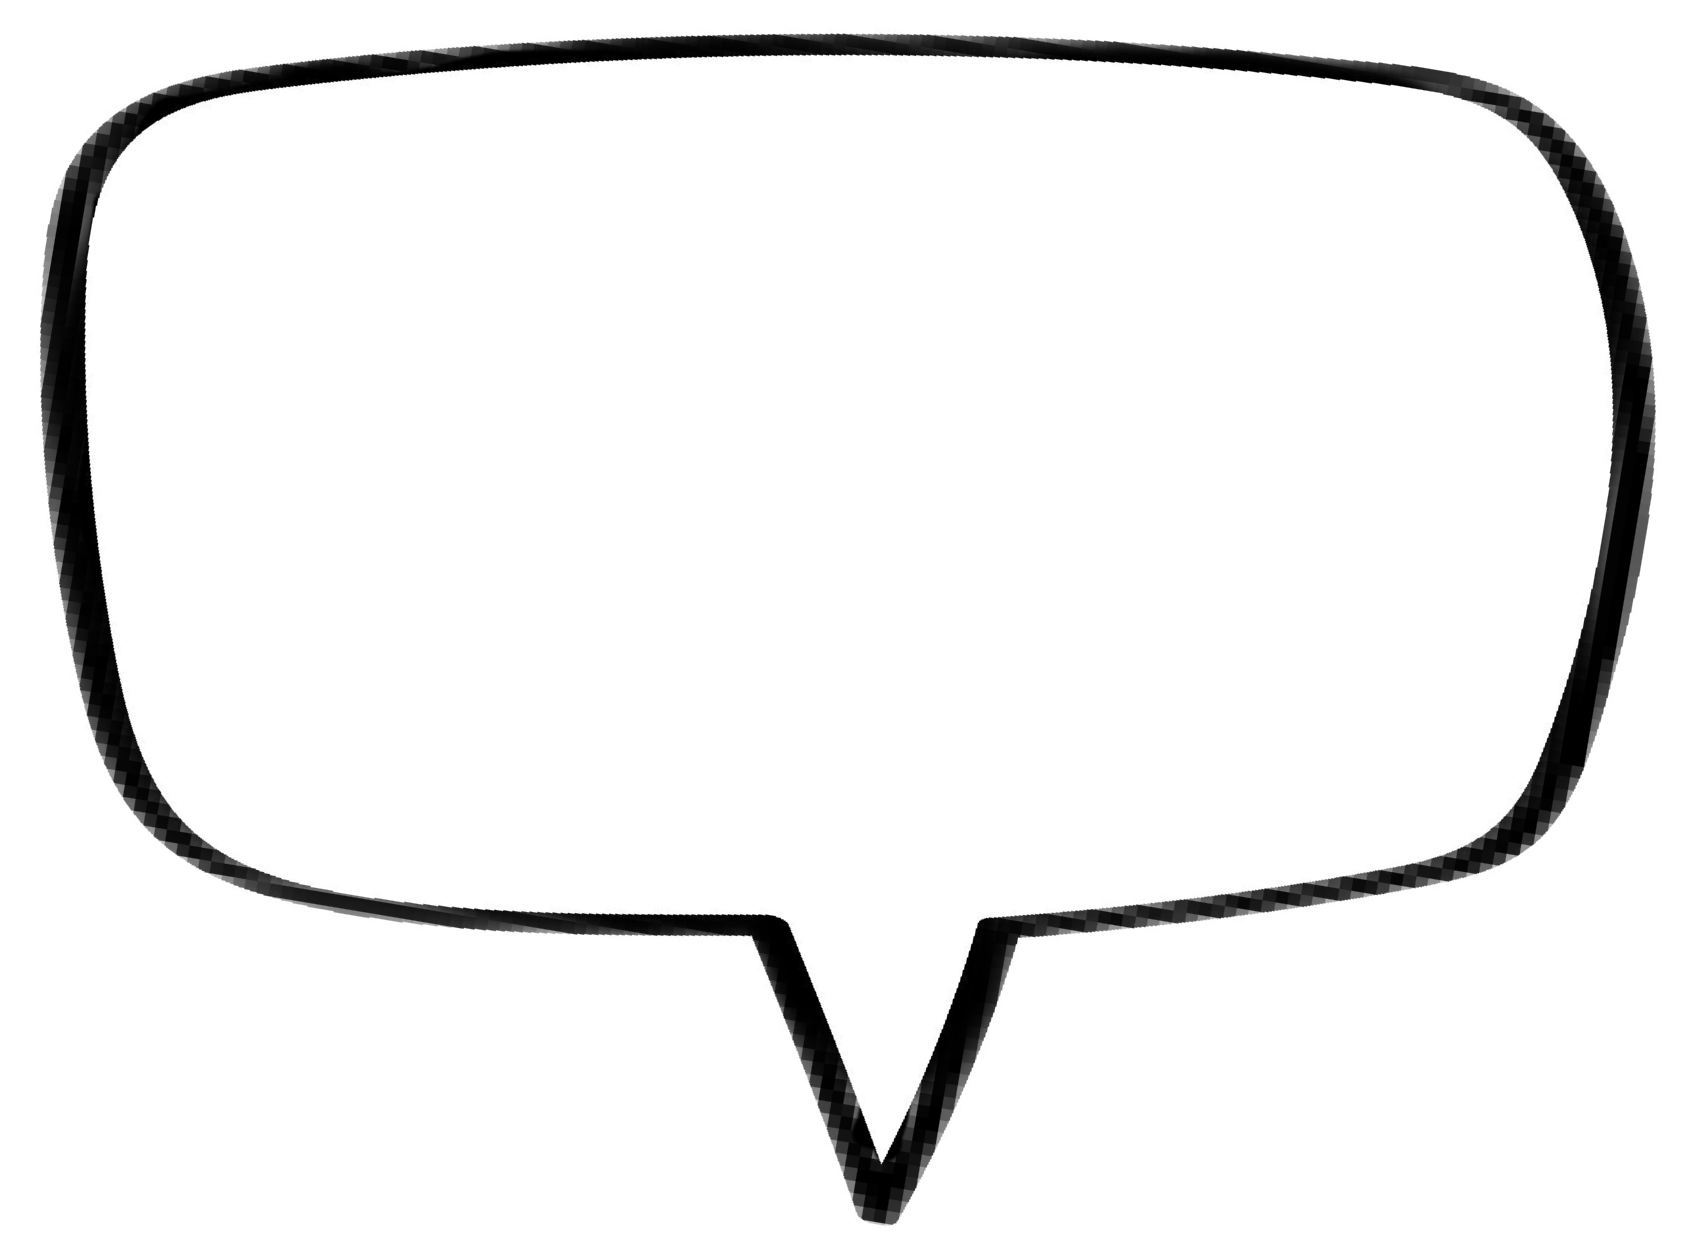
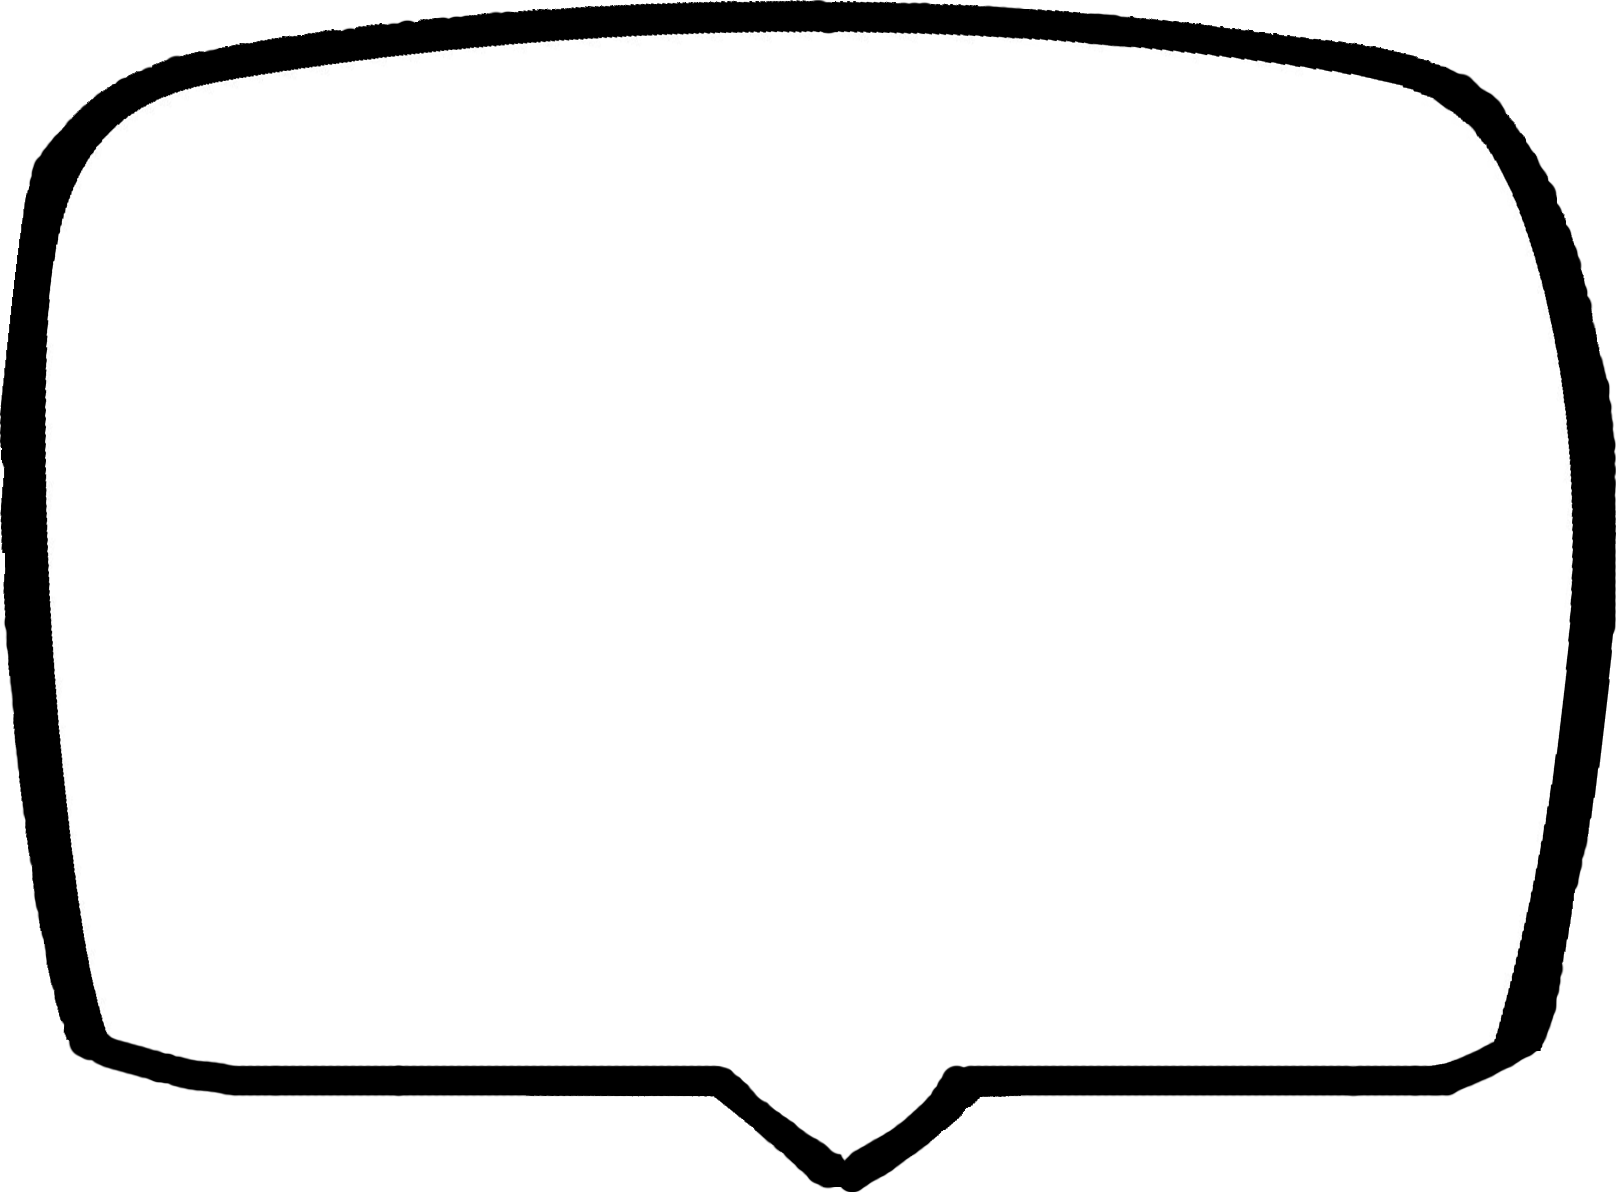
[완료] 말풍선 수정

Changed region(s): [[0.0, 0.0, 1.0, 1.0]]

diff --git a/client/src/Games/Somaek/Somaek.js b/client/src/Games/Somaek/Somaek.js
@@ -267,10 +267,10 @@ const Somaek = (props) => {
     /* 말풍선 */
     const speechBubbleImg = imgElements["speechBubble"];
 
-    const bubbleLeftX = -0.005; // 원하는 X 위치를 설정하세요 (예시: 0).
-    const bubbleTopY = -0.01; // 원하는 Y 위치를 설정하세요 (예시: 0).
+    const bubbleLeftX = 0.005; // 원하는 X 위치를 설정하세요 (예시: 0).
+    const bubbleTopY = 0.01; // 원하는 Y 위치를 설정하세요 (예시: 0).
     const bubbleWidth = 0.24; // 원하는 너비값을 설정하세요 (예시: 100).
-    const bubbleHeight = 0.38; // 원하는 높이값을 설정하세요 (예시: 100).
+    const bubbleHeight = 0.35; // 원하는 높이값을 설정하세요 (예시: 100).
 
     can_ctx.drawImage(
       speechBubbleImg,
@@ -337,8 +337,8 @@ const Somaek = (props) => {
     can_ctx.save(); // 현재 컨텍스트 상태를 저장
     can_ctx.scale(-1, 1); // X 축을 따라 스케일을 반전시킴 (좌우 반전)
 
-    const speechLeftX = 0.17; // 원하는 X 위치를 설정하세요 (예시: 0).
-    const speechTopY = 0.06; // 원하는 Y 위치를 설정하세요 (예시: 0).
+    const speechLeftX = 0.18; // 원하는 X 위치를 설정하세요 (예시: 0).
+    const speechTopY = 0.08; // 원하는 Y 위치를 설정하세요 (예시: 0).
     const speechWidth = 0.13; // 원하는 너비값을 설정하세요 (예시: 100).
 
     /* 소주1병, 맥주1명 주문내역 텍스트 캔버스에 출력 */
@@ -804,7 +804,7 @@ const Somaek = (props) => {
             />
             {/* 시연 */}
             <div className={`${!loaded && styles.hidden}`}>
-              <TimerBar timeMax={25 * 1000} gameEnd={gameEnd} start={start} />
+              <TimerBar timeMax={100000 * 1000} gameEnd={gameEnd} start={start} />
             </div>
             {/* subscribers Cam */}
             {subscribers.map((subscriber, index) => (
